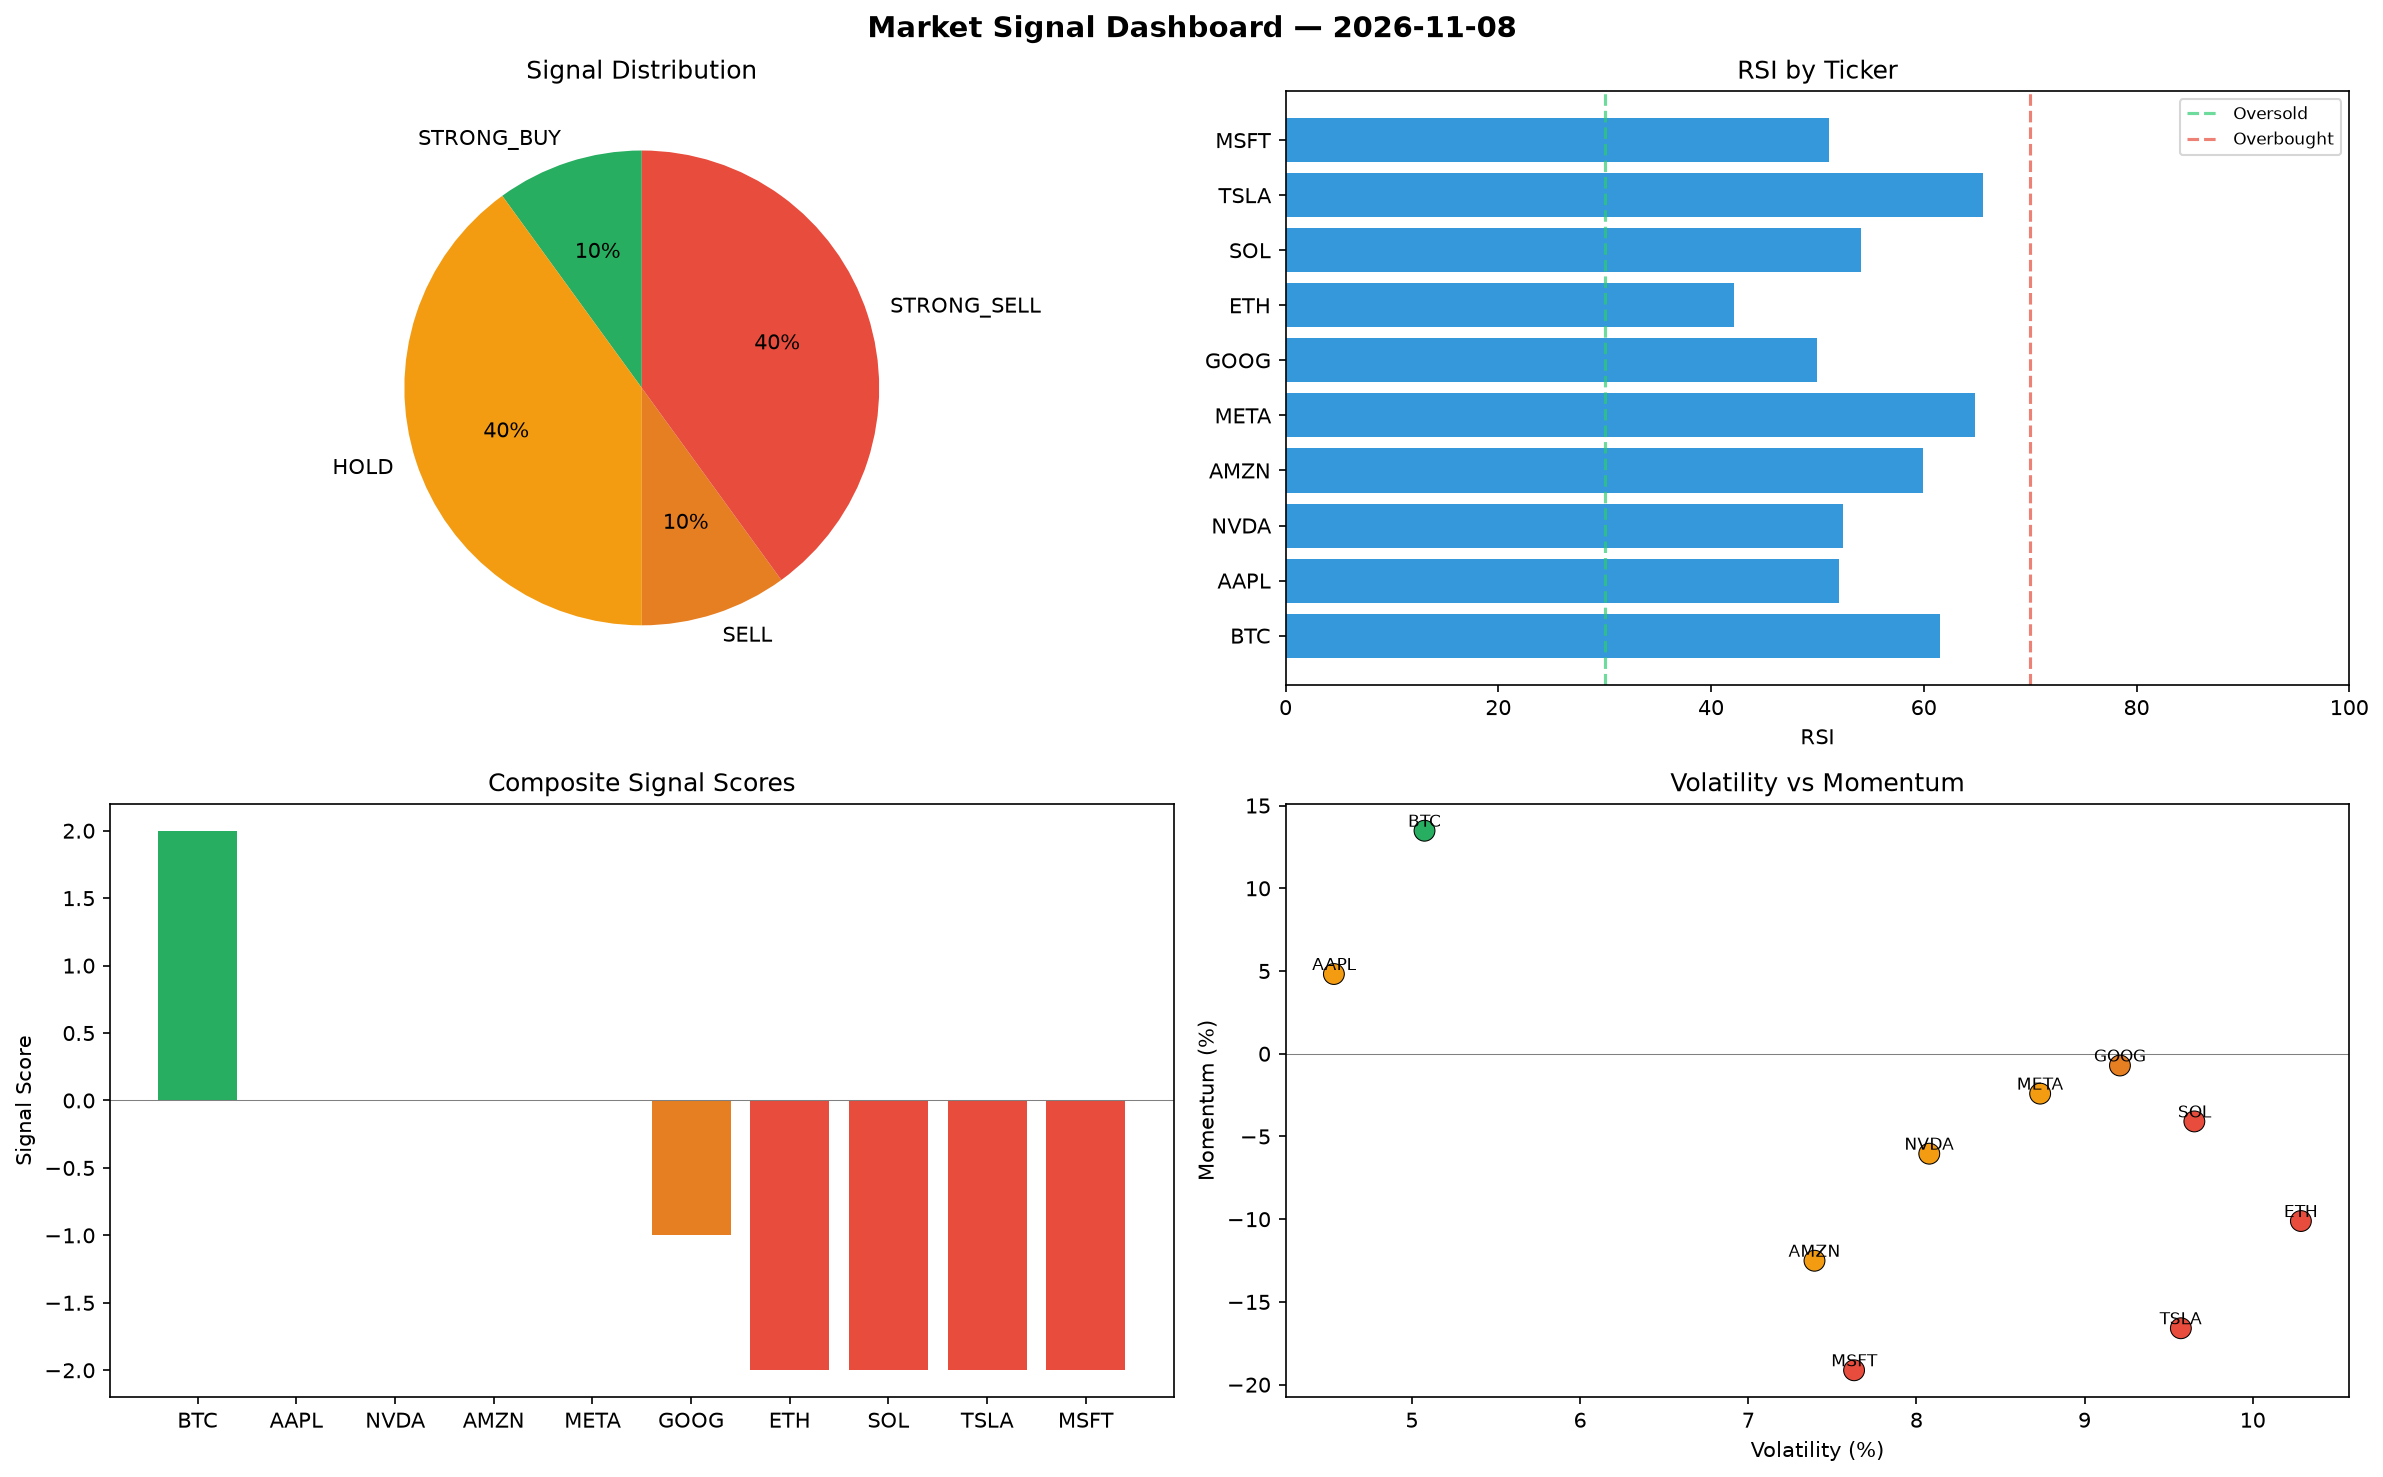
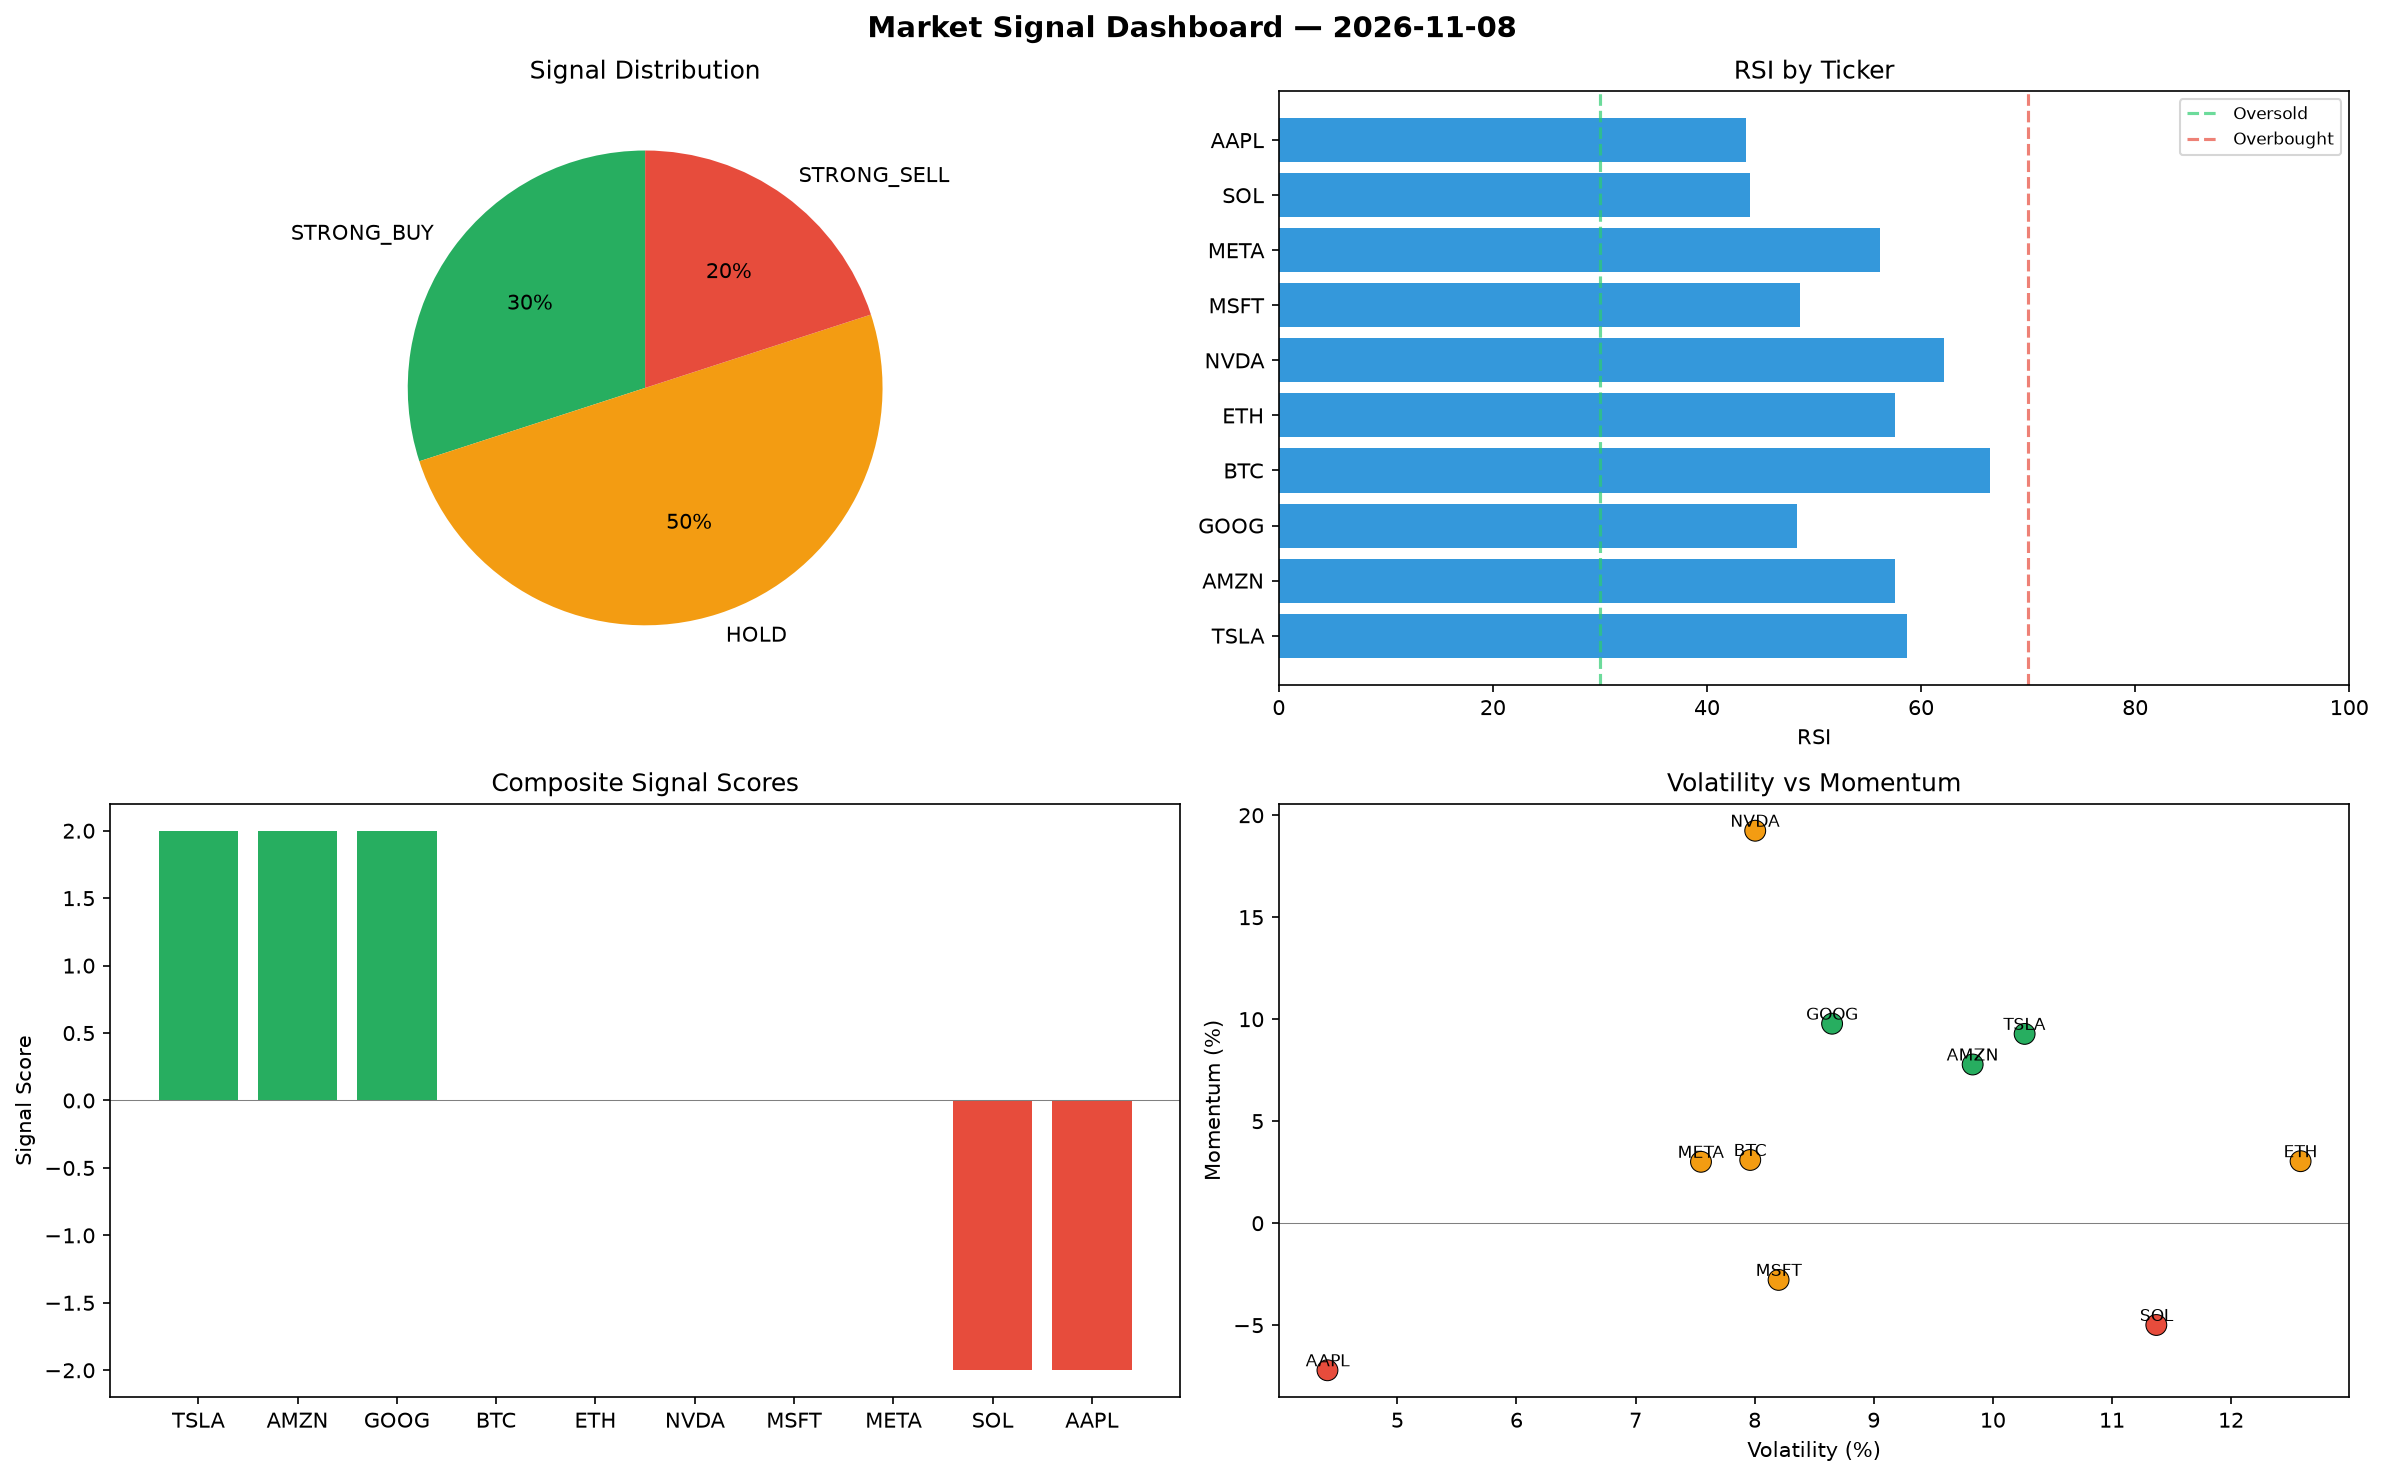
automated-bots: market signals 2026-11-08T23:50

diff --git a/logs/2026-11-08.md b/logs/2026-11-08.md
@@ -1,6 +1,6 @@
 # Market Signal Report — 2026-11-08
 
-**Run ID:** `eb21bb492e` | **Buy:** 1 | **Sell:** 5 | **Hold:** 4
+**Run ID:** `a356ce0db4` | **Buy:** 3 | **Sell:** 2 | **Hold:** 5
 
 ![Dashboard](2026-11-08_dashboard.png)
 
@@ -8,28 +8,28 @@
 
 | Ticker | Price | Signal | Score | RSI | Momentum | Confidence |
 |--------|-------|--------|-------|-----|----------|------------|
-| BTC | $4656.58 | **STRONG_BUY** | 2 | 61.49 | 0.1348 | 0.5 |
-| AAPL | $176.0 | **HOLD** | 0 | 52.06 | 0.0482 | 0.0 |
-| NVDA | $3201.36 | **HOLD** | 0 | 52.44 | -0.0604 | 0.0 |
-| AMZN | $704.36 | **HOLD** | 0 | 59.91 | -0.1251 | 0.0 |
-| META | $4447.75 | **HOLD** | 0 | 64.77 | -0.0241 | 0.0 |
-| GOOG | $4847.69 | **SELL** | -1 | 49.97 | -0.0071 | 0.25 |
-| ETH | $1846.68 | **STRONG_SELL** | -2 | 42.14 | -0.1011 | 0.5 |
-| SOL | $2298.27 | **STRONG_SELL** | -2 | 54.09 | -0.0409 | 0.5 |
-| TSLA | $484.03 | **STRONG_SELL** | -2 | 65.53 | -0.1659 | 0.5 |
-| MSFT | $2742.46 | **STRONG_SELL** | -2 | 51.11 | -0.1913 | 0.5 |
+| TSLA | $5058.92 | **STRONG_BUY** | 2 | 58.68 | 0.0928 | 0.5 |
+| AMZN | $3312.79 | **STRONG_BUY** | 2 | 57.54 | 0.0778 | 0.5 |
+| GOOG | $4904.75 | **STRONG_BUY** | 2 | 48.4 | 0.0978 | 0.5 |
+| BTC | $4308.1 | **HOLD** | 0 | 66.45 | 0.031 | 0.0 |
+| ETH | $1239.88 | **HOLD** | 0 | 57.59 | 0.0304 | 0.0 |
+| NVDA | $3648.63 | **HOLD** | 0 | 62.11 | 0.1924 | 0.0 |
+| MSFT | $2798.72 | **HOLD** | 0 | 48.69 | -0.0278 | 0.0 |
+| META | $3500.73 | **HOLD** | 0 | 56.17 | 0.0301 | 0.0 |
+| SOL | $3496.54 | **STRONG_SELL** | -2 | 43.99 | -0.0499 | 0.5 |
+| AAPL | $4790.45 | **STRONG_SELL** | -2 | 43.6 | -0.0721 | 0.5 |
 
 ## Delta vs Yesterday
 
 | Ticker | Today | Yesterday | Price Change | Signal Changed |
 |--------|-------|-----------|-------------|----------------|
-| BTC | STRONG_BUY | HOLD | 📈 63.52% | ⚠ YES |
-| AAPL | HOLD | STRONG_SELL | 📉 -55.07% | ⚠ YES |
-| NVDA | HOLD | HOLD | 📉 -6.67% | — |
-| AMZN | HOLD | HOLD | 📉 -80.33% | — |
-| META | HOLD | SELL | 📉 -8.23% | ⚠ YES |
-| GOOG | SELL | STRONG_BUY | 📈 374.69% | ⚠ YES |
-| ETH | STRONG_SELL | STRONG_SELL | 📉 -20.77% | — |
-| SOL | STRONG_SELL | STRONG_BUY | 📈 3.82% | ⚠ YES |
-| TSLA | STRONG_SELL | HOLD | 📉 -89.45% | ⚠ YES |
-| MSFT | STRONG_SELL | STRONG_SELL | 📈 78.52% | — |
+| TSLA | STRONG_BUY | HOLD | 📈 10.28% | ⚠ YES |
+| AMZN | STRONG_BUY | HOLD | 📉 -7.48% | ⚠ YES |
+| GOOG | STRONG_BUY | STRONG_BUY | 📈 380.28% | — |
+| BTC | HOLD | HOLD | 📈 51.28% | — |
+| ETH | HOLD | STRONG_SELL | 📉 -46.8% | ⚠ YES |
+| NVDA | HOLD | HOLD | 📈 6.37% | — |
+| MSFT | HOLD | STRONG_SELL | 📈 82.18% | ⚠ YES |
+| META | HOLD | SELL | 📉 -27.77% | ⚠ YES |
+| SOL | STRONG_SELL | STRONG_BUY | 📈 57.95% | ⚠ YES |
+| AAPL | STRONG_SELL | STRONG_SELL | 📈 1122.86% | — |
